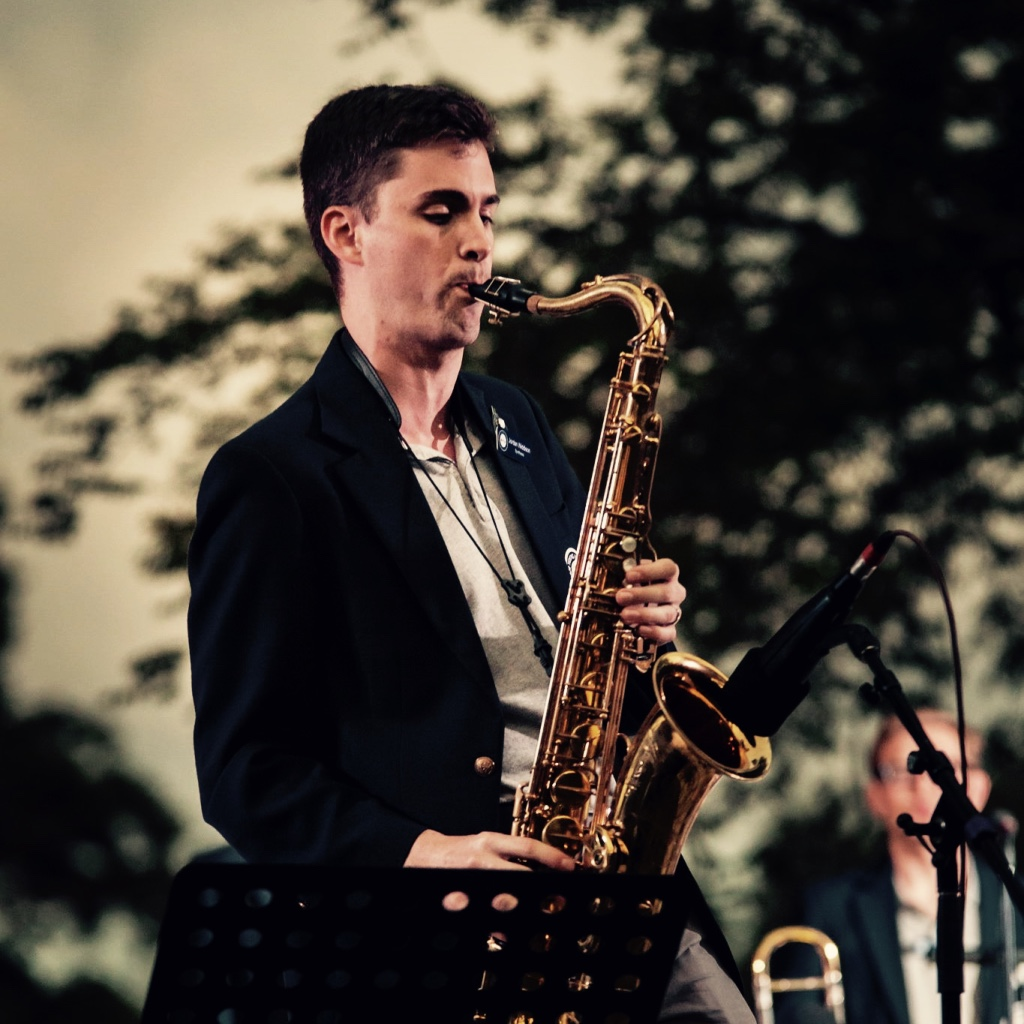
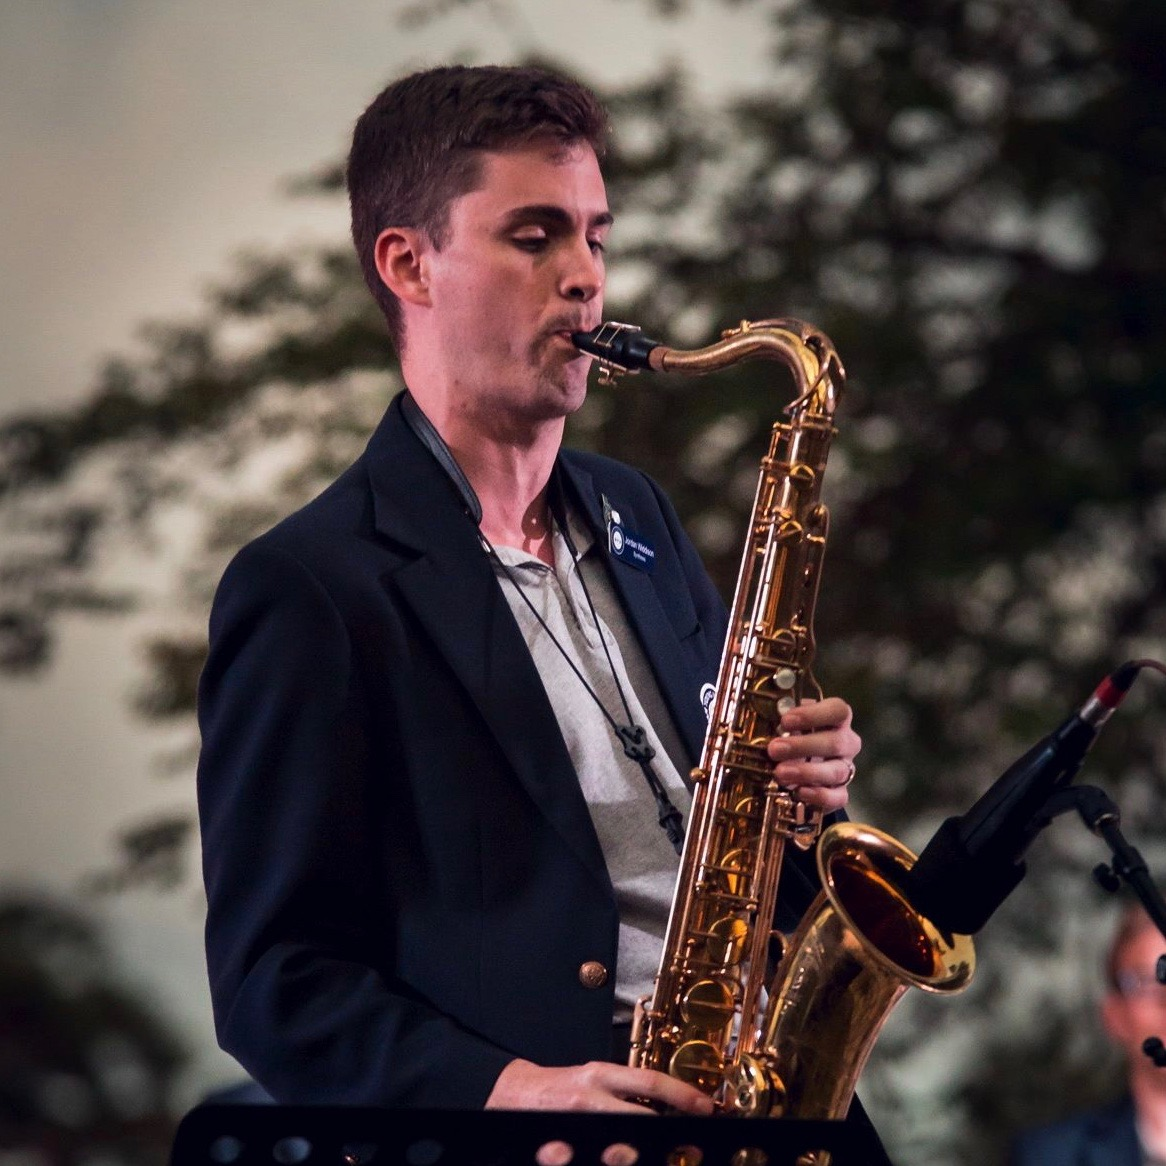
Slight refactoring of top_cover_text classes (pulling class names out of enclosing div, to be more descriptive and less redundant) and re-wording of text on about page.  Also replaced the picture of me playing saxophone on about page with one without weird filter.

diff --git a/about.html b/about.html
@@ -53,8 +53,8 @@
     <div class="top_cover parallax-window" data-parallax="scroll" data-image-src="media/pics/macbook_9.jpg">
       <div class="container">
         <div class="row">
-          <div class="col-md-12 text-right animated fadeIn">
-            <div id="top_cover_text" class="text-right white">
+          <div class="col-md-12">
+            <div id="top_cover_text" class="text-right animated fadeIn white">
               <h1>learn more</h1>
               <h4>about me</h4>
             </div>
@@ -68,9 +68,9 @@
         <div class="col-md-12">
           <h2>i'm an aspiring web designer and developer</h2>
           <hr />
-          <p>I'm currently working toward a Masters of Information Systems Management at Brigham Young University in Provo, Utah.  I love technology and learning how the devices we use every day work.  I love good design, and learning about how UI decisions shape the end user's experience with whatever you're developing.</p>
-          <p>I've grown up working at my Father's small business in the groundwater well service industry. The combined experience I have from studying Information Systems, working in the groundwater industry, and continuing to perform as a jazz musician gives me a unique set of skills and sets me up to be able to make a difference in any field where I end up working.</p>
-          <p>I've traveled to Europe to play in jazz festivals in Scandavia and the Baltics, I've spent long summer days screwing pipe together and developing groundwater wells, and I learn everything I can about programming and web design.</p>
+          <p>I'm currently working toward a Masters of Information Systems Management at Brigham Young University in Provo, Utah. I love technology and learning how the devices we use every day work. I love good design, and learning about how our UI design decisions shape the end user's experience with whatever product you're designing.</p>
+          <p>I've grown up working at my Father's small business in the groundwater-well industry. The combined experience I have from studying Information Systems and working in the groundwater industry gives me a unique set of skills and sets me up to be able to make a difference in any organization where I end up.</p>
+          <p>I'm also a jazz saxophone player (see below). I have worked hard to be able to compete and perform with any jazz musician at a professional level in the state of utah.</p>
         </div>
       </div>
     </div>
@@ -86,8 +86,9 @@
             <img src="media/pics/jazz.jpg" class="img-responsive center-block">
           </div>
           <div class="col-md-7">
-            <p>I love jazz music. I started playing the alto saxophone at age 11. Since then I've picked up soprano, tenor, and baritone saxophone, flute, piccolo, clarinet, and bass clarinet. I also play the piano and guitar. I love playing jazz for a lot of the same reasons that I love programming , software development, and web design.</p>
-            <p>In jazz, performers play improvised solos.  The approach to playing a good solo is similar to writing a good program. You have a framework of chord changes to play within. Once you understand the rules of that framework, you are free to navigate your way through it in any way you want.  It's wonderful to have two outlets for the same type of creativity. Jazz and programming. I really believe that jazz deserves to hold a continuous place in America's popular music.</p>
+            <p>I love jazz music. I started playing the alto saxophone at age 11. Since then I've picked up soprano, tenor, and baritone saxophone, flute, clarinet, and piano. I love playing jazz for a lot of the same reasons that I love programming, software development, and web design.</p>
+            <p>In jazz, performers play improvised solos. The approach to playing a good solo is similar to writing a good program. You have a framework of chord changes to play within. Once you understand the rules of that framework, you are free to navigate your way through it in any way you want. It's wonderful to have two outlets for the same type of creativity.</p>
+            <p>I've traveled to Europe to play in jazz festivals in Scandavia and the Baltics (Including the V&otilde;su jazz festival in Estonia, pictured here), I've spent long summer days screwing pipe together and developing groundwater wells so that they produce more water, completely changed the way that company runs by integrating technology into the company, and I learn everything I can about programming and web design.</p>
           </div>
         </div>
       </div>

diff --git a/oops.html b/oops.html
@@ -53,8 +53,8 @@
     <div class="top_cover parallax-window" data-parallax="scroll" data-image-src="media/pics/macbook_4.jpg">
       <div class="container">
         <div class="row">
-          <div class="col-md-12 text-right animated fadeIn">
-            <div id="top_cover_text" class="text-right">
+          <div class="col-md-12">
+            <div id="top_cover_text" class="text-right animated fadeIn">
               <h1>oops</h1>
               <h4>something went wrong</h4>
               <h4>this is embarassing...</h4>

diff --git a/success.html b/success.html
@@ -53,8 +53,8 @@
     <div class="top_cover parallax-window" data-parallax="scroll" data-image-src="media/pics/macbook_1.jpg">
       <div class="container">
         <div class="row">
-          <div class="col-md-12 text-right animated fadeIn">
-            <div id="top_cover_text" class="white">
+          <div class="col-md-12">
+            <div id="top_cover_text" class="white text-right animated fadeIn">
               <h1>thanks</h1>
               <h4>i'll be in touch soon</h4>
             </div>

diff --git a/resume.html b/resume.html
@@ -53,8 +53,8 @@
     <div class="top_cover parallax-window" data-parallax="scroll" data-image-src="media/pics/macbook_8.jpeg">
       <div class="container">
         <div class="row">
-          <div class="col-md-12 text-right animated fadeIn">
-            <div id="top_cover_text" class="white">
+          <div class="col-md-12">
+            <div id="top_cover_text" class="white text-right animated fadeIn">
               <h1>resume</h1>
               <!-- <h4>down there</h4> -->
             </div>

diff --git a/index.html b/index.html
@@ -52,8 +52,8 @@
     <div class="top_cover parallax-window" data-parallax="scroll" data-image-src="media/pics/macbook_4.jpg">
       <div class="container">
         <div class="row">
-          <div class="col-md-12 text-right animated fadeIn">
-            <div id="top_cover_text">
+          <div class="col-md-12">
+            <div id="top_cover_text" class="text-right animated fadeIn">
               <h1>hi</h1>
               <h4>my name is jordan widdison</h4>
             </div>

diff --git a/contact.html b/contact.html
@@ -53,8 +53,8 @@
     <div class="top_cover parallax-window" data-parallax="scroll" data-image-src="media/pics/iphone_1.jpeg">
       <div class="container">
         <div class="row">
-          <div class="col-md-12 text-right animated fadeIn">
-            <div id="top_cover_text" class="">
+          <div class="col-md-12">
+            <div id="top_cover_text" class="text-right animated fadeIn">
               <h1>so</h1>
               <h4>let's talk</h4>
             </div>
